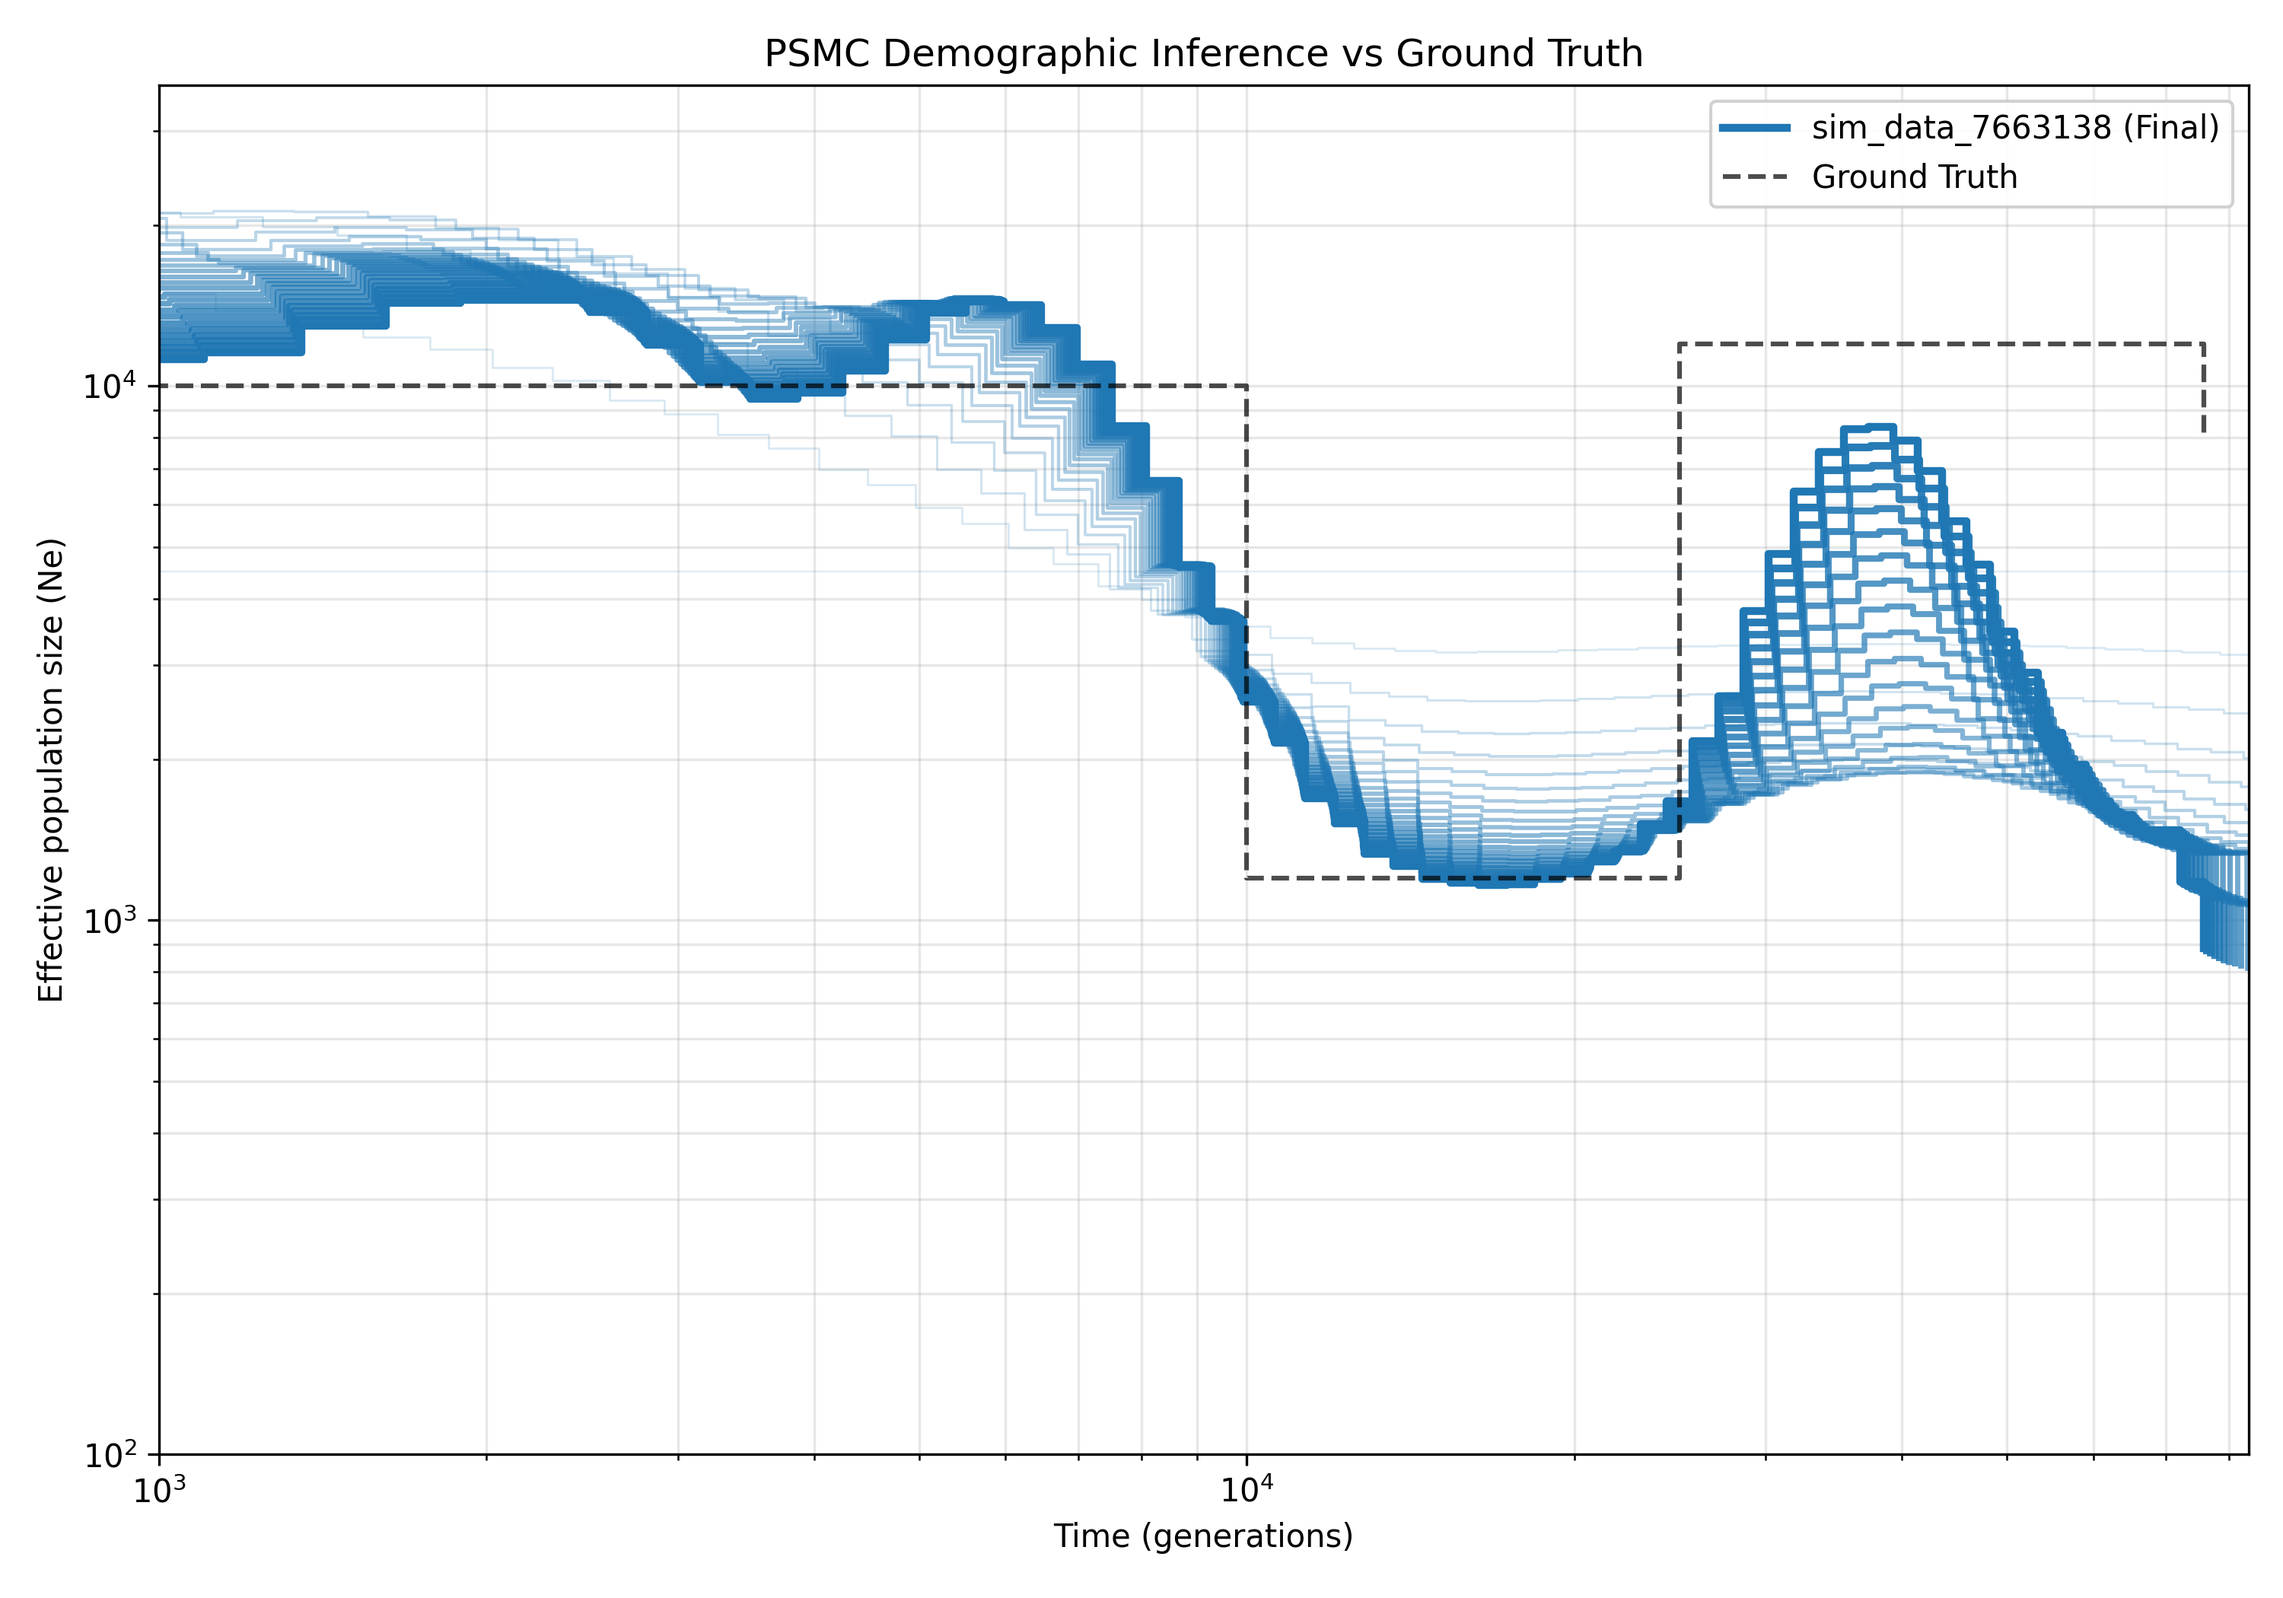
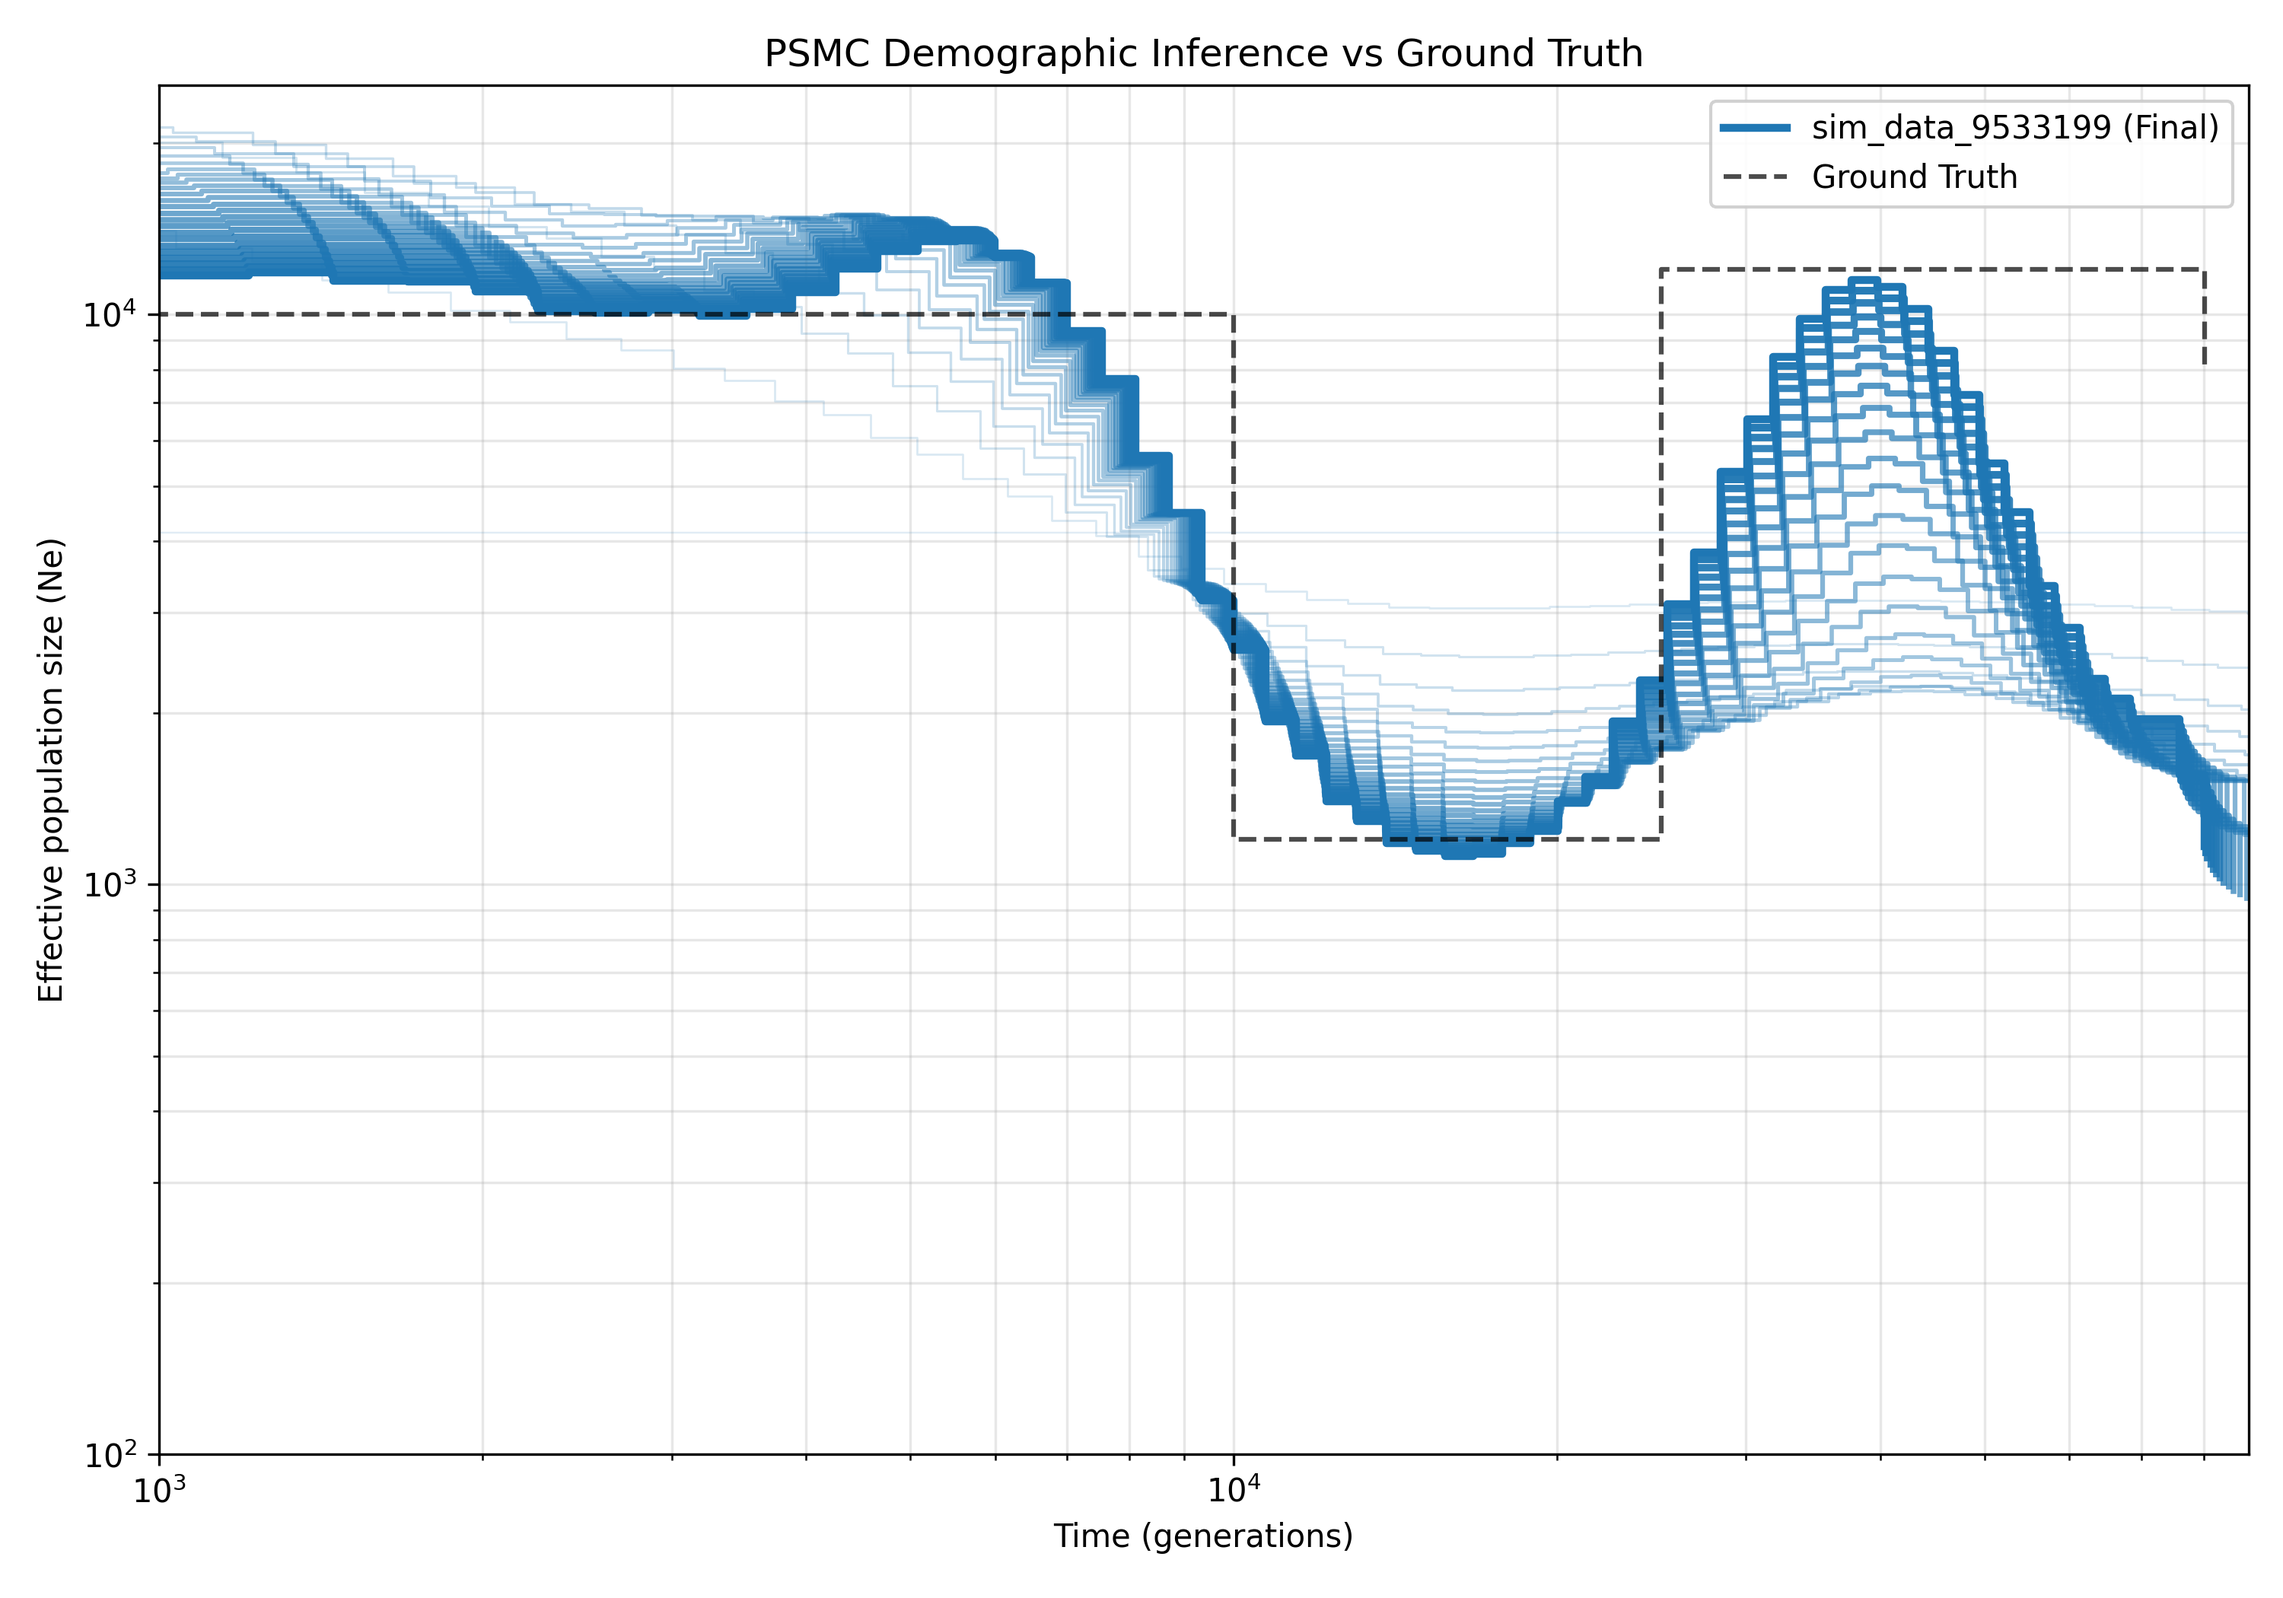
add psmc output results

diff --git a/README.md b/README.md
@@ -39,7 +39,11 @@ curl -o datasets/hs37d5.fa.gz LINK???????
 ### Simulated Data
 
 For simulated data, we use the `ms` software to generate sequences under a specified demographic model. We use python to run the simulations and generate the input files for PSMC.
-For python, we use [msprime](https://pypi.org/project/msprime/) to generate the simulated data. We run [simulate_data.py](./scripts/simulate_data.py) to generate the simulated data to get `simulated_validation.psmc` and `simulated_validation.psmcfa` file.
+For python, we use [msprime](https://pypi.org/project/msprime/) to generate the random simulated data for every run(using a random seed) but they have similar demographic features. We run [simulate_data.py](./scripts/simulate_data.py) to generate the simulated data to get `sim_data_<RANDOM_SEED>.psmc` and `sim_data_<RANDOM_SEED>.psmcfa` file.
+
+```bash
+python3 scripts/simulate_data.py
+```
 
 ## Running PSMC
 
@@ -71,6 +75,8 @@ Once we have the PSMC software built, we can run it on our data. Our main pipeli
 4. Runs PSMC with the standard parameters `-N25 -t15 -r5 -p '4+25*2+4+6'` to produce a `.psmc` output file.
 5. Creates a comparison plot for any available `.psmc` files and saves it as `datasets/psmc_plot.png`.
 
+*Note:* For simulated datasets, we follow a similar pipeline, but we first generate the simulated data using `ms` or `msprime`.
+
 You can run the pipeline for all supported samples or pass specific sample names, for example: (Note we use [uv](https://astral.sh/uv/) to run the python script, you can also use `python` or `python3` if you have the necessary dependencies installed)
 
 ```bash
@@ -82,13 +88,24 @@ This will run the pipeline for both `NA18561` and `NA12878` samples, generating 
 
 ### Results
 
-We have generated the PSMC plots for combined plots....
+To validate the simulated data, we run PSMC on the simulated data.
 
-For simulated datasets, we follow a similar pipeline, but we first generate the simulated data using `ms` or `msprime`.
+1. *Learning of EM algorithm in PSMC*: We observe that as the number of iterations increases, the PSMC estimates converges. This shows that the EM algorithm is effectively learning the demographic history from the data and converging towards a stable solution.
+
+![Learning of EM algorithm in PSMC](experiments/PSMC-Learning-Progress.png)
+
+2. *Comparison of PSMC with Ground Truth*: We compare the PSMC estimates with the true demographic history used in the simulation. The plot shows that PSMC gets closer and closer to ground truth as the number of iterations increases.
+
+![PSMC vs Ground Truth](./experiments/psmc_simulated_data.png)
+
+3. *Human Genome Results*: We also run PSMC on the real human genome data as mentioned above, an example plot among the obtained plots is shown below(for NA12878):
+
+![PSMC on NA12878](./experiments/NA12878-psmc.png)
 
 ## SINGER
 
 Check out the experiments we did at [experiments/PSMC_vs_singer_Simulated.ipynb](./experiments/PSMC_vs_singer_Simulated.ipynb) (Note this contains SINGER results as well). 
+
 ![SINGER vs PSMC](experiments/SINGER_vs_PSMC.png)
 ![SINGER_TMRCA on simulated data](experiments/SINGER_TMRCA.png)
 ![SINGER HEATMAP](experiments/Heatmap.png)
